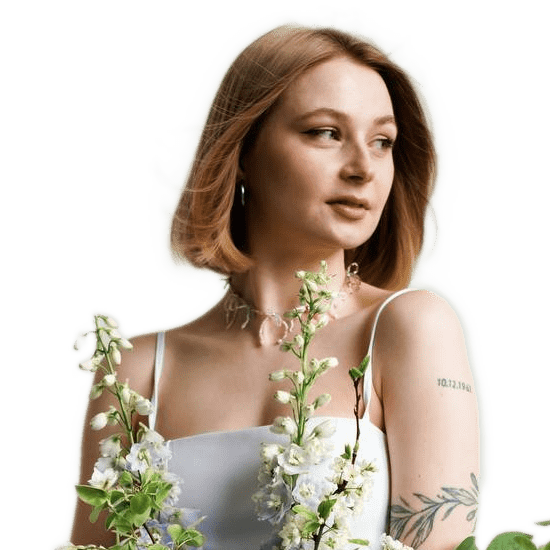
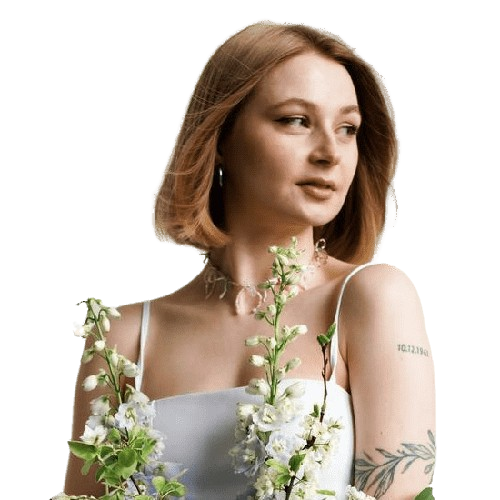
made Greeting component

diff --git a/src/constants/Contacts.ts b/src/constants/Contacts.ts
@@ -1,4 +1,4 @@
-import { TLink } from '../types/types';
+import { TLink, TPost } from '../types/types';
 
 export const Contacts = {
   TELEGRAM: 'https://telegram.me/annavedgun',
@@ -19,4 +19,58 @@ export const Links: TLink[] = [
     title: 'Блог',
     path: '/blog',
   },
+];
+
+export const loadingPosts: TPost[] = [
+  {
+    id: 1,
+    date: '',
+    title: 'Загрузка...',
+    text: '',
+    url: '',
+  },
+  {
+    id: 2,
+    date: '',
+    title: 'Загрузка...',
+    text: '',
+    url: '',
+  },
+  {
+    id: 3,
+    date: '',
+    title: 'Загрузка...',
+    text: '',
+    url: '',
+  },
+  {
+    id: 4,
+    date: '',
+    title: 'Загрузка...',
+    text: '',
+    url: '',
+  },
+  {
+    id: 5,
+    date: '',
+    title: 'Загрузка...',
+    text: '',
+    url: '',
+  },
+];
+
+export const workingWith: string[] = [
+  'Навязчивые мысли и действия (обсессивно-компульсивное расстройство)',
+  'Тревожные состояния',
+  'Самокритика и низкая самооценка',
+  'Сложности в межличностных отношениях (с родителями, партнером, друзьями и т.д.)',
+  'Кризисные состояния (смерть близкого, развод, увольнение и т.д.)',
+  'Личностные кризисы (потеря смысла жизни, самоопределение)',
+];
+
+export const notWorkingWith: string[] = [
+  'Зависимости (алкогольная, наркотическая и т.д.)',
+  'Детский и подростковый возраст (от 0 до 18 лет)',
+  'Не работаю с друзьями и знакомыми',
+  'Семейная терапия',
 ];

diff --git a/src/components/Greeting/Greeting.tsx b/src/components/Greeting/Greeting.tsx
@@ -1,0 +1,24 @@
+import styles from './Greeting.module.scss';
+import '../.././styles/global.scss';
+import image from '../../assets/images/user/avatar.png';
+
+export const Greeting = () => {
+  return (
+    <section className="block">
+      <div className={styles.wrapper}>
+        <div className={styles.image}>
+          <img src={image} alt="Анна Ведьгун" title="Анна Ведьгун" />
+        </div>
+        <div className={styles.body}>
+          <h2>Приветствую 👋🏼</h2>
+          <p>Меня зовут Ведьгун Анна, я практикующий психолог :)</p>
+          <p>
+            Изучаю психологию уже 8 лет, а практикую 3 года. В работе использую
+            когнитивно-поведенческую терапию и схема-терапию. Провожу
+            индивидуальные сессии в онлайн и офлайн формате.
+          </p>
+        </div>
+      </div>
+    </section>
+  );
+};

diff --git a/src/pages/BlogPage/BlogPage.tsx b/src/pages/BlogPage/BlogPage.tsx
@@ -4,21 +4,22 @@ import styles from './BlogPage.module.scss';
 import { useGetPostsQuery } from '../../store/slice/api/apiSlice';
 import { TPost } from '../../types/types';
 import { PostsList } from '../../components/PostsList/PostsList';
+import { loadingPosts } from '../../constants/Contacts';
 
 export const BlogPage = () => {
-  const [posts, setPosts] = useState<TPost[] | []>([]);
+  const [posts, setPosts] = useState<TPost[] | []>(loadingPosts);
 
-  const { data, isLoading, isError } = useGetPostsQuery();
+  const { data, isLoading } = useGetPostsQuery();
 
   useEffect(() => {
-    if (data && !isLoading) {
+    if (!!data && !isLoading) {
       setPosts(data);
     }
   }, [data]);
 
   return (
     <Layout>
-      <PostsList posts={posts} isLoading={isLoading} isError={isError} />
+      <PostsList posts={posts} />
     </Layout>
   );
 };

diff --git a/src/components/layout/Header/Header.tsx b/src/components/layout/Header/Header.tsx
@@ -1,6 +1,8 @@
 import styles from './Header.module.scss';
 import '../../../styles/global.scss';
 import { NavLinks } from '../../NavLinks/NavLinks';
+import { Paths } from '../../../constants/Paths';
+import { Link } from 'react-router-dom';
 
 export const Header = () => {
   return (
@@ -8,7 +10,9 @@ export const Header = () => {
       <div className="container">
         <div className={styles.wrapper}>
           <div className={styles.logo}>
-            <h1>Анна Ведьгун</h1>
+            <Link to={Paths.HOME}>
+              <h1 className={styles.title}>Анна Ведьгун</h1>
+            </Link>
           </div>
           <NavLinks />
         </div>

diff --git a/src/components/Greeting/Greeting.module.scss b/src/components/Greeting/Greeting.module.scss
@@ -1,0 +1,37 @@
+@import '../../styles/variables.scss';
+
+.wrapper {
+  width: 100%;
+  display: flex;
+  align-items: center;
+  gap: $spacing-medium;
+}
+
+.image {
+  min-height: 300px;
+  height: 300px;
+  min-width: 300px;
+  width: 300px;
+  border-radius: 50%;
+  overflow: hidden;
+  background-color: $color-accent-primary;
+  
+  img {
+    width: 100%;
+    height: 100%;
+    object-fit: contain;
+    filter: drop-shadow(5px 5px 5px $color-bg-primary);
+
+  }
+}
+
+.body {
+
+  h2 {
+    margin-bottom: $spacing-medium;
+  }
+
+  p {
+    margin: 0;
+  }
+}

diff --git a/src/components/PostsList/PostsList.tsx b/src/components/PostsList/PostsList.tsx
@@ -5,20 +5,15 @@ import styles from './PostsList.module.scss';
 
 interface PostsListProps {
   posts: TPost[];
-  isLoading: boolean;
-  isError: boolean;
 }
 
 export const PostsList: FC<PostsListProps> = ({
-  posts,
-  isLoading,
-  // isError,
+  posts
 }) => {
   const [openId, setOpenId] = useState<number | null>(null);
 
   return (
     <section className={styles.wrapper}>
-      {isLoading && <h2>Loading..</h2>}
       {posts.length > 0 &&
         posts?.map((post: TPost) => (
           <Post

diff --git a/src/pages/HomePage/HomePage.tsx b/src/pages/HomePage/HomePage.tsx
@@ -1,10 +1,11 @@
+import { Greeting } from '../../components/Greeting/Greeting';
 import { Layout } from '../../components/layout/Layout/Layout';
 // import styles from './HomePage.module.scss';
 
 export const HomePage = () => {
   return (
     <Layout>
-      <section>home</section>
+      <Greeting />
     </Layout>
   );
 };

diff --git a/src/components/layout/Header/Header.module.scss b/src/components/layout/Header/Header.module.scss
@@ -1,3 +1,5 @@
+@import '../../../styles/variables.scss';
+
 .header {
   position: sticky;
   top: 0;
@@ -11,4 +13,8 @@
   justify-content: space-between;
   align-items: center;
   min-height: 80px;
+}
+
+.title {
+  color: $color-accent-primary;
 }

diff --git a/src/styles/global.scss b/src/styles/global.scss
@@ -16,6 +16,14 @@
   }
 }
 
+.block {
+  width: 100%;
+  padding: $spacing-medium;
+  color: $color-text-primary;
+  background-color: #fff;
+  border-radius: $border-radius-medium;
+}
+
 /* ::placeholder {
   font-family: sans-serif;
 } */
